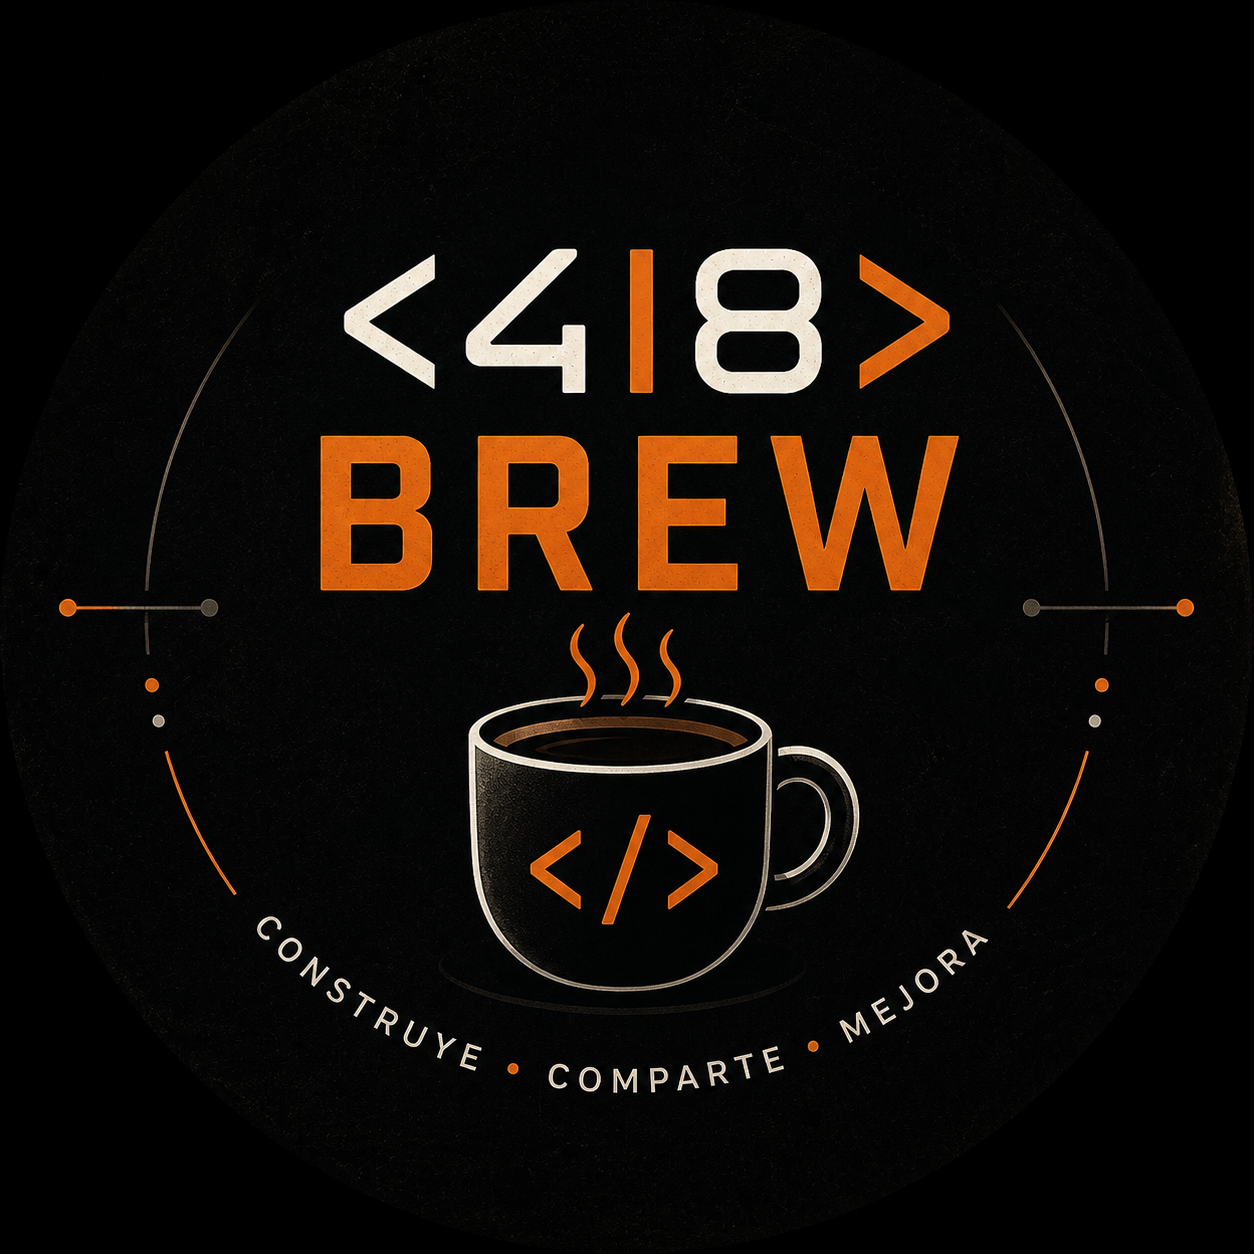
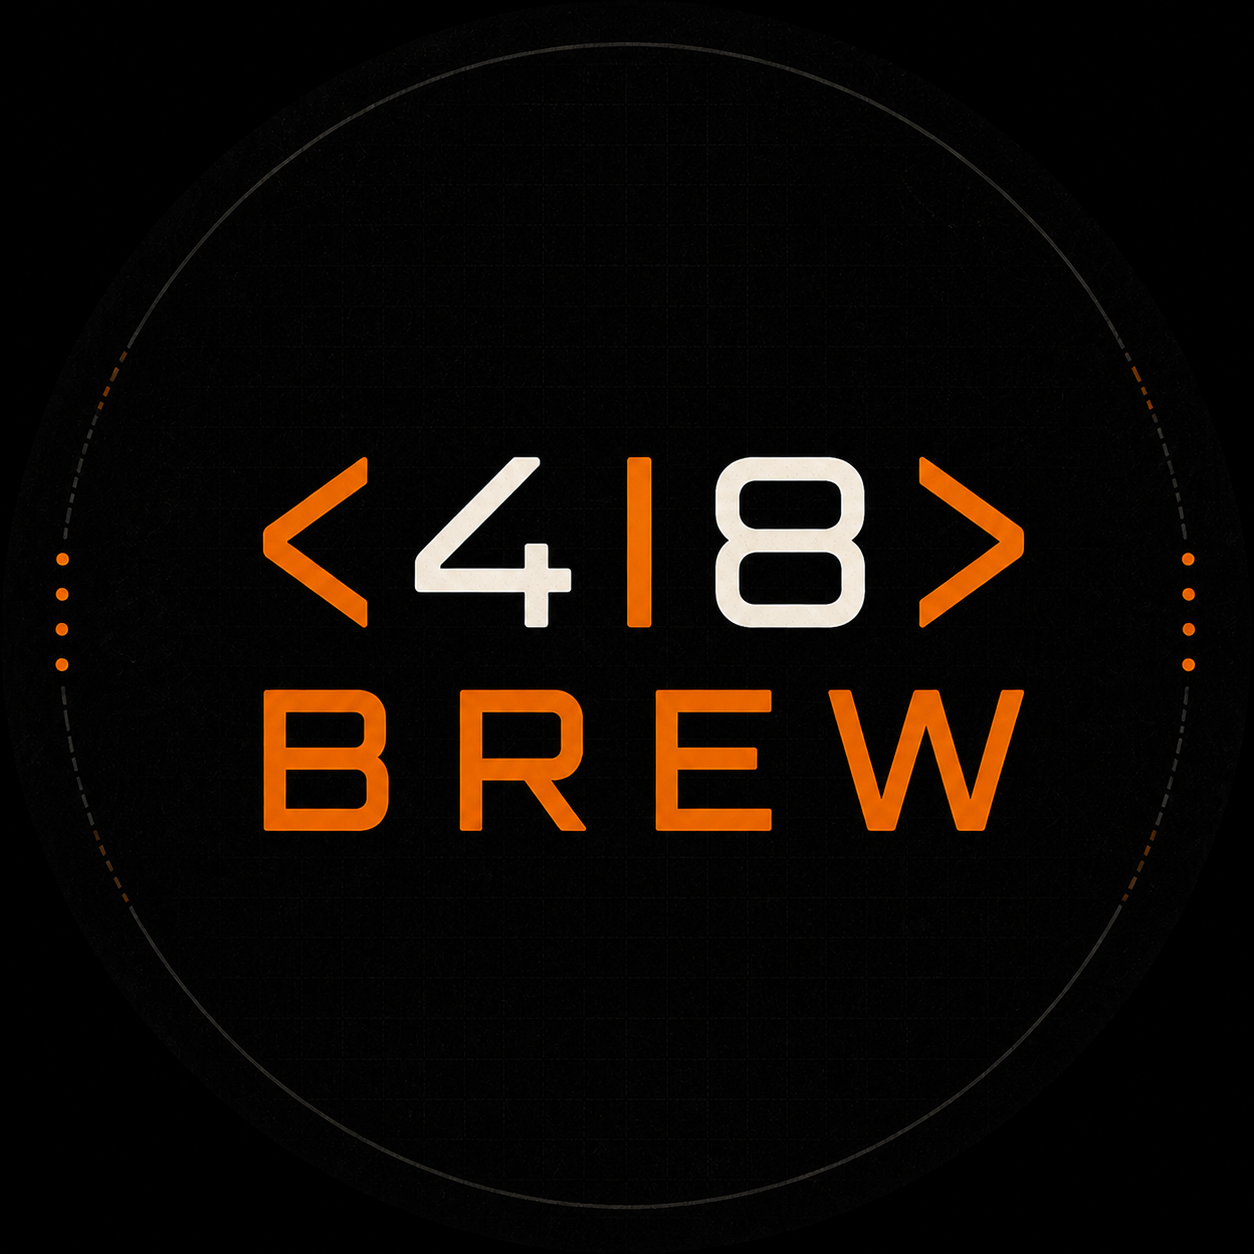
feat(copy): castellano consistency + tagline update + Rules label
Changes:
- All UI copy 'community' → 'comunidad' (page eyebrows, body text, CTA buttons, aria-labels). Web is in Spanish.
- ChannelCard rules label: 'Reglas' → 'Rules' (matches the convention used with AI agents).
- Tagline updated brand-wide: 'CONSTRUIR · AUTOMATIZAR · COMPARTIR' → 'INVESTIGAR · CONSTRUIR · COMPARTIR'. Updated in Tagline component, opengraph-image, and brand-spec.md (source of truth).
- /brew empty state: 'La cocina está empezando.' → 'Estamos *cocinando* nuevas ideas.' (italic accent on cocinando matches the lead style)

diff --git a/app/brew/page.tsx b/app/brew/page.tsx
@@ -65,7 +65,7 @@ export default function BrewPage() {
           <h2 className={styles.h2}>Tipos de post.</h2>
           <p className={styles.lead}>
             Cuando empecemos a publicar, cada post pertenece a una de estas 4 categorías. Los
-            nombres también se usan dentro del community para etiquetar mensajes.
+            nombres también se usan dentro de la comunidad para etiquetar mensajes.
           </p>
           <ul className={styles.postTypes}>
             {POST_TYPES.map(({ Icon, name, description }) => (
@@ -86,15 +86,15 @@ export default function BrewPage() {
       <Section>
         <div className={styles.empty}>
           <p className={styles.emptyText}>
-            Todavía no hay posts publicados. La cocina está empezando.
+            Estamos <em>cocinando</em> nuevas ideas.
           </p>
         </div>
       </Section>
 
       <Section variant="surface">
         <div className={styles.cta}>
-          <CTAButton variant="primary" ariaLabel="Solicitar acceso al community de WhatsApp">
-            Entrar al community →
+          <CTAButton variant="primary" ariaLabel="Solicitar acceso a la comunidad de WhatsApp">
+            Entrar a la comunidad →
           </CTAButton>
         </div>
       </Section>

diff --git a/app/comunidad/page.tsx b/app/comunidad/page.tsx
@@ -27,7 +27,7 @@ export default function ComunidadPage() {
     <main>
       <Section>
         <div className={styles.intro}>
-          <Eyebrow>El community</Eyebrow>
+          <Eyebrow>La comunidad</Eyebrow>
           <h1 className={styles.title}>
             Tres canales.
             <br />
@@ -60,11 +60,11 @@ export default function ComunidadPage() {
           <Eyebrow>Cómo entrar</Eyebrow>
           <h2 className={styles.h2}>Solicitas. Apruebo. Entras.</h2>
           <p className={styles.lead}>
-            El community es por aprobación. Cuando solicitas el acceso desde el botón, lo reviso
+            La comunidad es por aprobación. Cuando solicitas el acceso desde el botón, lo reviso
             manualmente. Si te conozco, entras.
           </p>
-          <CTAButton variant="primary" ariaLabel="Solicitar acceso al community de WhatsApp">
-            Entrar al community →
+          <CTAButton variant="primary" ariaLabel="Solicitar acceso a la comunidad de WhatsApp">
+            Entrar a la comunidad →
           </CTAButton>
         </div>
       </Section>

diff --git a/app/protocol/page.tsx b/app/protocol/page.tsx
@@ -65,7 +65,7 @@ export default function ProtocolPage() {
           <Eyebrow>Lenguaje · {GLOSSARY.length} términos</Eyebrow>
           <h2 className={styles.h2}>El vocabulario del protocolo.</h2>
           <p className={styles.lead}>
-            Jerga propia que se usa con naturalidad en el community. No se sobreexplica en línea —
+            Jerga propia que se usa con naturalidad en la comunidad. No se sobreexplica en línea —
             si el contexto la hace clara, basta.
           </p>
           <div className={styles.grid}>
@@ -78,8 +78,8 @@ export default function ProtocolPage() {
 
       <Section>
         <div className={styles.cta}>
-          <CTAButton variant="outline" ariaLabel="Solicitar acceso al community de WhatsApp">
-            Entrar al community →
+          <CTAButton variant="outline" ariaLabel="Solicitar acceso a la comunidad de WhatsApp">
+            Entrar a la comunidad →
           </CTAButton>
         </div>
       </Section>

diff --git a/app/brew/page.module.css b/app/brew/page.module.css
@@ -102,6 +102,10 @@
   color: var(--color-text-muted);
   letter-spacing: var(--tracking-tight);
 }
+.emptyText em {
+  color: var(--color-accent);
+  font-style: italic;
+}
 
 .cta {
   display: flex;

diff --git a/app/page.tsx b/app/page.tsx
@@ -206,8 +206,8 @@ export default function HomePage() {
       <Section>
         <div className={styles.cta}>
           <Eyebrow>Compartir es ayudar. Be open source, my friend.</Eyebrow>
-          <CTAButton variant="primary" ariaLabel="Solicitar acceso al community de WhatsApp">
-            Entrar al community →
+          <CTAButton variant="primary" ariaLabel="Solicitar acceso a la comunidad de WhatsApp">
+            Entrar a la comunidad →
           </CTAButton>
         </div>
       </Section>

diff --git a/app/opengraph-image.tsx b/app/opengraph-image.tsx
@@ -43,7 +43,7 @@ export default async function OGImage() {
             textTransform: 'uppercase',
           }}
         >
-          CONSTRUIR · AUTOMATIZAR · COMPARTIR
+          INVESTIGAR · CONSTRUIR · COMPARTIR
         </div>
         <div
           style={{

diff --git a/components/ChannelCard.tsx b/components/ChannelCard.tsx
@@ -37,7 +37,7 @@ export function ChannelCard({ channel, expanded = false }: Props) {
         <div className={styles.footer}>
           {data.rules && (
             <div className={styles.subBlock}>
-              <span className={styles.subLabel}>Reglas</span>
+              <span className={styles.subLabel}>Rules</span>
               <ul className={styles.rules}>
                 {data.rules.map((rule) => (
                   <li key={rule}>{rule}</li>

diff --git a/components/Tagline.tsx b/components/Tagline.tsx
@@ -9,7 +9,7 @@ type Props = {
 export function Tagline({ variant = 'default', className }: Props) {
   return (
     <span className={`${styles.tagline} ${styles[variant]} ${className ?? ''}`}>
-      CONSTRUIR · AUTOMATIZAR · COMPARTIR
+      INVESTIGAR · CONSTRUIR · COMPARTIR
     </span>
   );
 }